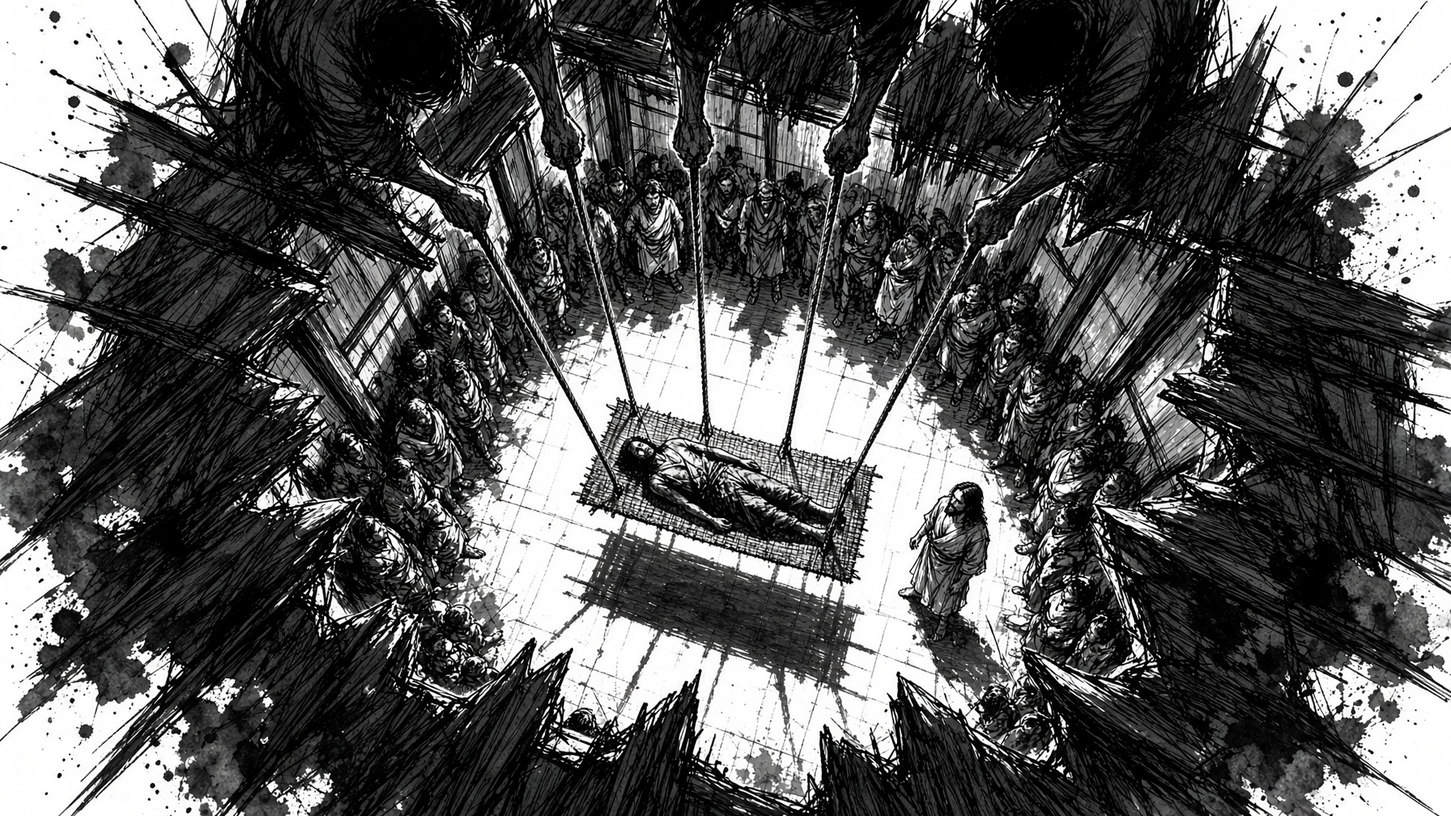
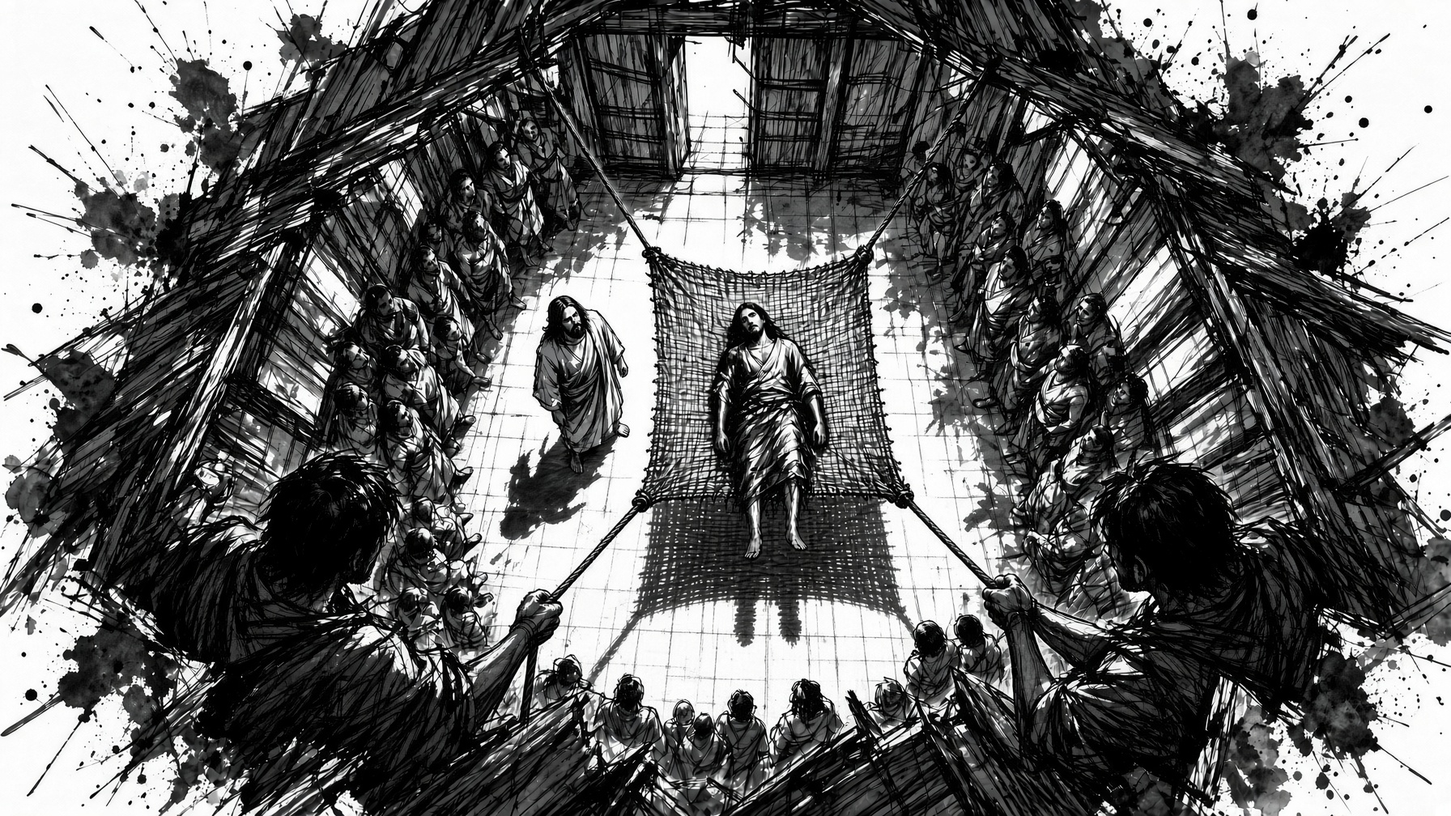
ART-203-01b: replace 203-01 roof-drop sequence with two frames
Dave approved a two-frame Grok Imagine sequence. Hold on seq-1, then crossfade to the landing frame at house timing [0, 0.16, 0.8]. Seq-3 is unused and removed.

diff --git a/discipleship/scripts/l203_01_story_image_browser_check.js b/discipleship/scripts/l203_01_story_image_browser_check.js
@@ -1,8 +1,8 @@
 #!/usr/bin/env node
 /**
  * 203-01 Four Friends and a Roof story-image browser check.
- * Confirms the three roof-drop scroll frames load with house-standard
- * holds, a last unique frame at 0.8, advance in order, keep touchNext
+ * Confirms the two roof-drop scroll frames load with a hold on frame 1,
+ * a last unique landing frame at 0.8, advance in order, keep touchNext
  * on the parable card, honor reduced motion, and do not shift the page
  * at phone and laptop widths. Synthetic navigation only.
  */
@@ -15,9 +15,7 @@ var BASE = process.env.L20301_STORY_BASE_URL || 'http://127.0.0.1:8765/index.htm
 var FRAMES = [
     'images/203-01-roof-drop-seq-1.jpg',
     'images/203-01-roof-drop-seq-1.jpg',
-    'images/203-01-roof-drop-seq-2.jpg',
-    'images/203-01-roof-drop-seq-2.jpg',
-    'images/203-01-roof-drop-seq-3.jpg'
+    'images/203-01-roof-drop-seq-2.jpg'
 ];
 var QUESTION_IDS = [
     '203-01-one',
@@ -28,10 +26,10 @@ var QUESTION_IDS = [
     '203-01-step',
     '203-01-prayer'
 ];
-var STOPS = [0, 0.08, 0.16, 0.24, 0.8];
+var STOPS = [0, 0.16, 0.8];
 var LAST_STOP = STOPS[STOPS.length - 1];
 var AFTER_LAST = 0.85;
-var SAMPLE_PROGRESS = [0, 0.04, 0.08, 0.12, 0.16, 0.2, 0.24, 0.4, 0.56, 0.8, 0.85];
+var SAMPLE_PROGRESS = [0, 0.08, 0.16, 0.4, 0.56, 0.8, 0.85];
 var failed = 0;
 var passed = 0;
 
@@ -51,7 +49,7 @@ async function waitForSequence(page) {
         var root = document.querySelector('#session-1.active [data-parable-sequence]');
         if (!root) return false;
         var frames = Array.prototype.slice.call(root.querySelectorAll('.parable-sequence-frame'));
-        return frames.length === 5 && frames.every(function (img) {
+        return frames.length === 3 && frames.every(function (img) {
             return img.complete && img.naturalWidth > 0 && img.naturalHeight > 0;
         });
     }, { timeout: 20000 });
@@ -168,8 +166,8 @@ function srcMatches(src, expected) {
         await waitForSequence(page);
 
         var rest = await readSequenceState(page);
-        assert(width + ': five sequence frames render', rest.frameCount === 5, String(rest.frameCount));
-        assert(width + ': sequence stops are 0,0.08,0.16,0.24,0.8', rest.stops === STOPS.join(','), rest.stops);
+        assert(width + ': three sequence frames render', rest.frameCount === 3, String(rest.frameCount));
+        assert(width + ': sequence stops are 0,0.16,0.8', rest.stops === STOPS.join(','), rest.stops);
         assert(width + ': image keeps touchNext', rest.touchNext);
         assert(width + ': parable card follows the image', rest.nextIsParable);
         assert(
@@ -192,12 +190,11 @@ function srcMatches(src, expected) {
         });
         var alt = rest.frames[0] && rest.frames[0].alt || '';
         assert(
-            width + ': first frame alt names the three roof-drop beats',
+            width + ': first frame alt names the two roof-drop beats',
             alt.indexOf('hole in the roof') !== -1 &&
                 alt.indexOf('paralyzed man on a mat') !== -1 &&
-                alt.indexOf('shadow far below') !== -1 &&
-                alt.indexOf('then closer') !== -1 &&
-                alt.indexOf('landing beside Jesus') !== -1 &&
+                alt.indexOf('high above the floor') !== -1 &&
+                alt.indexOf('settling beside Jesus') !== -1 &&
                 alt.indexOf('\u2014') === -1,
             alt
         );
@@ -273,26 +270,26 @@ function srcMatches(src, expected) {
         }
         var used = {};
         order.forEach(function (row) { used[row.dominant] = true; });
-        var lastFrameInAtStop = atLastStop && atLastStop.opacities && atLastStop.opacities[4] >= 0.85;
+        var lastFrameInAtStop = atLastStop && atLastStop.opacities && atLastStop.opacities[2] >= 0.85;
         assert(width + ': frames advance in order as you scroll', monotonic, JSON.stringify(order));
-        assert(width + ': all five frames become dominant', Object.keys(used).length === 5, JSON.stringify(order));
+        assert(width + ': all three frames become dominant', Object.keys(used).length === 3, JSON.stringify(order));
         assert(width + ': last frame is nearly opaque at stop ' + LAST_STOP, lastFrameInAtStop, JSON.stringify(atLastStop));
-        assert(width + ': last frame is exclusive just after stop ' + LAST_STOP, afterLastStop && afterLastStop.dominant === 4, JSON.stringify(afterLastStop));
+        assert(width + ': last frame is exclusive just after stop ' + LAST_STOP, afterLastStop && afterLastStop.dominant === 2, JSON.stringify(afterLastStop));
         assert(width + ': last frame is still on screen at the final stop', lastStopVisible, lastStopNote);
         assert(width + ': touchNext joins the parable card without layout shift', overlapShift === false && heightAtStart > 100);
-        var atHoldEnd = order.find(function (row) { return row.progress === 0.24; });
+        var atHoldEnd = order.find(function (row) { return row.progress === 0.16; });
         var midDissolve = order.find(function (row) { return row.progress === 0.4; });
         var lateDissolve = order.find(function (row) { return row.progress === 0.56; });
-        var seq2AtHold = atHoldEnd && atHoldEnd.opacities &&
-            (atHoldEnd.opacities[2] >= 0.85 || atHoldEnd.opacities[3] >= 0.85) &&
-            atHoldEnd.opacities[4] < 0.15;
-        var seq3Mid = midDissolve && midDissolve.opacities && midDissolve.opacities[4];
-        var seq3Late = lateDissolve && lateDissolve.opacities && lateDissolve.opacities[4];
-        assert(width + ': seq-2 still holds at 0.24 before the last dissolve', seq2AtHold, JSON.stringify(atHoldEnd));
-        assert(width + ': last dissolve is underway at 0.4', seq3Mid > 0.15 && seq3Mid < 0.45, JSON.stringify(midDissolve));
-        assert(width + ': last dissolve is further along at 0.56', seq3Late > 0.45 && seq3Late < 0.75, JSON.stringify(lateDissolve));
+        var seq1AtHold = atHoldEnd && atHoldEnd.opacities &&
+            (atHoldEnd.opacities[0] >= 0.85 || atHoldEnd.opacities[1] >= 0.85) &&
+            atHoldEnd.opacities[2] < 0.15;
+        var seq2Mid = midDissolve && midDissolve.opacities && midDissolve.opacities[2];
+        var seq2Late = lateDissolve && lateDissolve.opacities && lateDissolve.opacities[2];
+        assert(width + ': seq-1 still holds at 0.16 before the last dissolve', seq1AtHold, JSON.stringify(atHoldEnd));
+        assert(width + ': last dissolve is underway at 0.4', seq2Mid > 0.15 && seq2Mid < 0.55, JSON.stringify(midDissolve));
+        assert(width + ': last dissolve is further along at 0.56', seq2Late > 0.45 && seq2Late < 0.80, JSON.stringify(lateDissolve));
         if (width === 390) {
-            assert('390: last dissolve spans 0.24 to 0.8 from seq-2 to seq-3', seq3Mid < seq3Late, 'mid=' + seq3Mid + ' late=' + seq3Late);
+            assert('390: last dissolve spans 0.16 to 0.8 from seq-1 to seq-2', seq2Mid < seq2Late, 'mid=' + seq2Mid + ' late=' + seq2Late);
         }
 
         await page.close();
@@ -306,13 +303,13 @@ function srcMatches(src, expected) {
     await reduced.goto(BASE + '#203-1', { waitUntil: 'domcontentloaded' });
     await waitForSequence(reduced);
     var reducedState = await readSequenceState(reduced);
-    assert('reduced motion: sequence root renders', reducedState.frameCount === 5, String(reducedState.frameCount));
+    assert('reduced motion: sequence root renders', reducedState.frameCount === 3, String(reducedState.frameCount));
     assert(
         'reduced motion: last frame shown without scrolling',
         reducedState.staticSequence &&
-            reducedState.frames[4] &&
-            reducedState.frames[4].opacity >= 0.95 &&
-            reducedState.frames.slice(0, 4).every(function (frame) { return frame.opacity <= 0.05; }),
+            reducedState.frames[2] &&
+            reducedState.frames[2].opacity >= 0.95 &&
+            reducedState.frames.slice(0, 2).every(function (frame) { return frame.opacity <= 0.05; }),
         JSON.stringify({
             staticSequence: reducedState.staticSequence,
             opacities: reducedState.frames.map(function (f) { return Number(f.opacity.toFixed(3)); })
@@ -320,9 +317,9 @@ function srcMatches(src, expected) {
     );
     assert(
         'reduced motion: last frame still loads the roof-drop sequence',
-        reducedState.frames[4] && reducedState.frames[4].naturalWidth > 0 &&
-            srcMatches(reducedState.frames[4].src, 'images/203-01-roof-drop-seq-3.jpg'),
-        reducedState.frames[4] && reducedState.frames[4].src
+        reducedState.frames[2] && reducedState.frames[2].naturalWidth > 0 &&
+            srcMatches(reducedState.frames[2].src, 'images/203-01-roof-drop-seq-2.jpg'),
+        reducedState.frames[2] && reducedState.frames[2].src
     );
     assert('reduced motion: old bw/color pair is not rendered', reducedState.hasBwPair === false);
     assert('reduced motion: touchNext joins the parable', reducedState.touchNext && reducedState.nextIsParable);

diff --git a/discipleship/scripts/lesson-image-assets.js b/discipleship/scripts/lesson-image-assets.js
@@ -809,7 +809,7 @@
     "images/203-01-roof-drop-seq-1.jpg": {
         "width": 1792,
         "height": 1008,
[2 lines of base64/hex data omitted]
         "variants": [
             {
                 "src": "images/optimized/203-01-roof-drop-seq-1-640.webp",
@@ -824,7 +824,7 @@
     "images/203-01-roof-drop-seq-2.jpg": {
         "width": 1792,
         "height": 1008,
[2 lines of base64/hex data omitted]
         "variants": [
             {
                 "src": "images/optimized/203-01-roof-drop-seq-2-640.webp",
@@ -832,21 +832,6 @@
             },
             {
                 "src": "images/optimized/203-01-roof-drop-seq-2-1280.webp",
-                "width": 1280
-            }
-        ]
-    },
-    "images/203-01-roof-drop-seq-3.jpg": {
-        "width": 1792,
-        "height": 1008,
[1 lines of base64/hex data omitted]
-        "variants": [
-            {
-                "src": "images/optimized/203-01-roof-drop-seq-3-640.webp",
-                "width": 640
-            },
-            {
-                "src": "images/optimized/203-01-roof-drop-seq-3-1280.webp",
                 "width": 1280
             }
         ]

diff --git a/discipleship/project-management/logs/2026-11-19-ART-203-01b-grok.md b/discipleship/project-management/logs/2026-11-19-ART-203-01b-grok.md
@@ -1,0 +1,71 @@
+# ART-203-01b: 203-01 two-frame roof-drop sequence
+
+Date: 2026-11-19. Owner: Grok. Branch: `cursor/art-203-01b-roof-drop-two`. Status: REVIEW. Base commit: `6027158`.
+
+## Why
+
+Dave approved a new two-frame Grok Imagine sequence looking straight down through the roof as friends lower a paralyzed man on a mat. Frame 1 is higher, with the net still well above the floor. Frame 2 is the mat about to land beside Jesus. This packet replaces the three-frame ART-203-01 wiring. Artwork was copied as-is; only the image optimizer made delivery WebP copies.
+
+## What changed
+
+1. **Originals (`images/203-01-roof-drop-seq-1.jpg` and `-2.jpg`)**: 1792x1008 JPEG, byte-identical to the approved uploads. SHA-256:
[2 lines of base64/hex data omitted]
+2. **Removed seq-3**: grep after the JSON, inventory, and browser-check updates found live references only in the generated `scripts/lesson-image-assets.js` map. Historical ART-203-01 log lines remain. Deleted `images/203-01-roof-drop-seq-3.jpg` and its 640/1280 WebP copies. The optimizer then dropped seq-3 from the asset map.
+3. **Lesson JSON (`data/203-01.json`)**: the story `image` block is now `imageSequence` `[seq-1, seq-1, seq-2]`, `imageSequenceStops: [0, 0.16, 0.8]`, `touchNext: true`, `anchor: "story"`. Hold on frame 1, then crossfade to the landing frame held at the end, per the house scroll timing. No other lesson text, question text, tools, or question IDs changed. Saved-answer IDs stay `203-01-one`, `203-01-helped`, `203-01-4`, `203-01-hand`, `203-01-key`, `203-01-step`, `203-01-prayer`. Retired IDs stay `203-01-1`, `203-01-2`, `203-01-6`.
+4. **Alt text.** Combined alt covering each beat: "Looking down through a hole in the roof as friends lower a paralyzed man on a mat, first high above the floor, then settling beside Jesus".
+5. **Optimizer (`node scripts/build_lesson_images.js`)**: ran after `npm ci`. Exit 0. Cached delivery copies for other art were left unchanged. `scripts/lesson-image-assets.js` was regenerated by the build script, not edited by hand. New copies:
+   - `images/optimized/203-01-roof-drop-seq-1-640.webp` (91126 bytes)
+   - `images/optimized/203-01-roof-drop-seq-1-1280.webp` (305154 bytes; original JPG 1076203)
+   - `images/optimized/203-01-roof-drop-seq-2-640.webp` (87884 bytes)
+   - `images/optimized/203-01-roof-drop-seq-2-1280.webp` (285348 bytes; original JPG 1032530)
+6. **Browser check**: `scripts/l203_01_story_image_browser_check.js` now checks three sequence entries, stops `[0, 0.16, 0.8]`, a hold on seq-1, the last dissolve to seq-2, scroll advance, last frame still on screen, `touchNext`, reduced motion, the seven saved-answer IDs, and that `203-01-love-moves-out.png` stays a separate static image.
+7. **Inventory**: 203-01 row in `story-image.md` is now a 3-stop sequence, live with `touchNext: true`.
+8. **Board**: ART-203-01b in `TASKS.md` is REVIEW, owner Grok / `cursor/art-203-01b-roof-drop-two`. ART-203-01 remains REVIEW with a superseded note on the image block.
+
+Login, Firebase config, workflows, index.html, reader/export code, widgets, and sign-in code were not touched.
+
+## Checks (from `discipleship/`)
+
+Local server: `python3 -m http.server 8765 --bind 127.0.0.1`. Playwright used installed Chrome (`GT_BROWSER_CHANNEL` default chrome). Synthetic data only. No credentials printed. Each command used `set -o pipefail` and a named `_EXIT` line.
+
+- `npm ci`: NPM_CI_EXIT:0
+- `node scripts/build_lesson_images.js`: BUILD_EXIT:0
+- `bash scripts/qa_foundation.sh`: QA_FOUNDATION_EXIT:0. Includes 415 bundled-John checks, 146 asset references, 32 widget iframe checks, 212 export checks, 1558 lesson image checks.
+- `node scripts/test_lesson_export.js`: TEST_LESSON_EXPORT_EXIT:0 (`212 check(s) passed.`)
+- `node scripts/test_answer_storage.js`: TEST_ANSWER_STORAGE_EXIT:0 (`73 check(s) passed.`)
+- `node scripts/check_lesson_assets.js`: CHECK_LESSON_ASSETS_EXIT:0 (`PASS: 146 src/image/imageBw/imageColor/imageSequence references resolve to files.`)
+- `node scripts/test_lesson_assets.js`: TEST_LESSON_ASSETS_EXIT:0 (`8 asset check tests passed.`)
+- `node scripts/test_widget_iframe.js`: TEST_WIDGET_IFRAME_EXIT:0 (`32 widget iframe checks passed.`)
+- `node scripts/test_lesson_images.js`: TEST_LESSON_IMAGES_EXIT:0 (`1558 lesson image checks passed.`)
+- `node scripts/l203_01_story_image_browser_check.js`: L203_01_STORY_IMAGE_BROWSER_CHECK_EXIT:0. 83 passed at 375, 390, and 1280, plus reduced motion. Three entries load and stay stacked, they advance in order on scroll (390 samples: dominant 0, 0, 1, 1, 1, 1, 2), seq-1 still holds at 0.16, last dissolve opacities 0.374 at 0.4 and 0.624 at 0.56, last frame is opaque at stop 0.8 and exclusive by 0.85, reduced motion shows seq-2 without scrolling, `touchNext` joins the parable card, wrap height stays put (375: 188.4px, 390: 196.9px, 1280: 337.5px), the parable does not nest a second story image, all seven question IDs render, no sideways scroll.
+
+Not run: real iPhone/Safari. No merge and no deploy. Stop at REVIEW. Dave's personal art approval remains pending.
+
+## Handoff
+
+Changed files:
+- `discipleship/data/203-01.json` (story image block only)
+- `discipleship/images/203-01-roof-drop-seq-1.jpg`
+- `discipleship/images/203-01-roof-drop-seq-2.jpg`
+- `discipleship/images/203-01-roof-drop-seq-3.jpg` (deleted)
+- `discipleship/images/optimized/203-01-roof-drop-seq-1-640.webp`
+- `discipleship/images/optimized/203-01-roof-drop-seq-1-1280.webp`
+- `discipleship/images/optimized/203-01-roof-drop-seq-2-640.webp`
+- `discipleship/images/optimized/203-01-roof-drop-seq-2-1280.webp`
+- `discipleship/images/optimized/203-01-roof-drop-seq-3-640.webp` (deleted)
+- `discipleship/images/optimized/203-01-roof-drop-seq-3-1280.webp` (deleted)
+- `discipleship/scripts/lesson-image-assets.js` (generated)
+- `discipleship/scripts/l203_01_story_image_browser_check.js`
+- `discipleship/story-image.md`
+- `discipleship/project-management/TASKS.md`
+- `discipleship/project-management/HANDOFF.md`
+- `discipleship/project-management/logs/2026-11-19-ART-203-01b-grok.md`
+
+Remaining work / next command: independent review, then Dave's personal art approval. Do not merge or deploy by hand.
+
+Blocker and unblock action, if any: none.
+
+Commit / PR / GitHub sync state: branch `cursor/art-203-01b-roof-drop-two`. PR follows this log. Stop at REVIEW.
+
+Pastoral approval evidence, if applicable: Dave approved the two seq frames before this wiring packet. No new lesson wording approval is implied.

diff --git a/discipleship/project-management/TASKS.md b/discipleship/project-management/TASKS.md
@@ -312,7 +312,8 @@ Plan and standard: [reviews/2026-11-11-series-review.md](reviews/2026-11-11-seri
 | [x] | CONTENTS-201-203 | DONE | Claude / claude/contents-201-203 / 2026-11-18 | Dave directed in session 2026-11-18 | Story / Study / Diagram contents list on all ten 201 and all ten 203 lessons, same design as 202. Story goes to the story picture, or the story card where a lesson has no picture (201-06, 203-01, 203-02, 203-10). Study goes to the first teaching section, or the next one where a widget sits right under it (201-03, 203-06, 203-09). Diagram goes to the main widget; 203-02, 203-03 and 203-04 have no widget and show two rows. No lesson wording changed. Dave approved on the preview and asked to merge 2026-11-18; merged in PR #294. Evidence: logs/2026-11-18-CONTENTS-201-203-claude.md. |
 | [x] | CONTENTS-203-BOXES | DONE | Claude / claude/203-box-diagrams / 2026-11-18 | Dave directed in session 2026-11-18 | Diagram row added to 203-02 (Prayer Card, the Their Life, Their Heart, My Part box), 203-03 (The Open Table box) and 203-04 (Time, Talents, Treasure box), which have no widget. Box blocks can now carry an anchor. Dave approved on the preview and asked to merge 2026-11-18; merged in PR #295. Evidence: logs/2026-11-18-CONTENTS-203-BOXES-claude.md. |
 | [x] | AAA-203-01 | DONE | Claude / claude/203-01-aaa / 2026-11-18 | Dave directed in session 2026-11-18 after the 203-01 to 203-05 review | 203-01 rewritten around personal ministry. Title Your Personal Ministry. The roof story leads; new grace turn (you were the one on the mat; carried people become carriers); Loved First, Then Sent section recaps 201 and 202 with the Greatest Commandment widget moved below the story and a new Love Moves Out circles picture (images/203-01-love-moves-out.png) under it; Personal Ministry Map widget removed from the lesson (file kept); tree and orchard cut to one sentence; new A Life, Not a Project section with the BLESS Rhythms box. All seven question IDs and wording kept. Contents Study now Loved First, Then Sent. Story art still pending (ART-203-01). Dave approved on the preview and asked to merge 2026-11-18; merged in PR #299. Evidence: logs/2026-11-18-AAA-203-01-claude.md. |
-| [ ] | ART-203-01 | REVIEW | Grok / cursor/art-203-01-roof-drop / 2026-11-19 | Dave approved three Grok Imagine frames | Add a three-frame roof-drop scroll sequence before Four Friends and a Roof (203-01-roof-drop-seq-1.jpg .. 3.jpg). House-standard timing adapted to three frames: 0.08 holds by listing seq-1 and seq-2 twice, last unique frame once, stops [0, 0.08, 0.16, 0.24, 0.8]. Non-image lesson values/IDs unchanged. Foundation QA/export 212/storage 73/assets 150/images 1571/iframe 32 and local browser 89 pass, exit 0. One PR; stop at REVIEW. Dave's personal art approval remains pending. Evidence: logs/2026-11-18-ART-203-01-grok.md. |
+| [ ] | ART-203-01 | REVIEW | Grok / cursor/art-203-01-roof-drop / 2026-11-19 | Dave approved three Grok Imagine frames | Add a three-frame roof-drop scroll sequence before Four Friends and a Roof (203-01-roof-drop-seq-1.jpg .. 3.jpg). House-standard timing adapted to three frames: 0.08 holds by listing seq-1 and seq-2 twice, last unique frame once, stops [0, 0.08, 0.16, 0.24, 0.8]. Non-image lesson values/IDs unchanged. Foundation QA/export 212/storage 73/assets 150/images 1571/iframe 32 and local browser 89 pass, exit 0. One PR; stop at REVIEW. Dave's personal art approval remains pending. Superseded on the image block by ART-203-01b. Evidence: logs/2026-11-18-ART-203-01-grok.md. |
+| [ ] | ART-203-01b | REVIEW | Grok / cursor/art-203-01b-roof-drop-two / 2026-11-19 | Dave approved two Grok Imagine frames | Replace the three-frame 203-01 roof-drop sequence with two frames (203-01-roof-drop-seq-1.jpg and -2.jpg). Sequence [seq-1, seq-1, seq-2], stops [0, 0.16, 0.8]: hold on frame 1, then crossfade to the landing frame held at the end. Seq-3 original and optimized copies deleted after grep showed no live references. Non-image lesson values/IDs unchanged. Foundation QA/export 212/storage 73/assets 146/images 1558/iframe 32 and local browser 83 pass, exit 0. One PR; stop at REVIEW. Dave's personal art approval remains pending. Evidence: logs/2026-11-19-ART-203-01b-grok.md. |
 | [x] | CLEANUP-STALE-LABELS | DONE | Claude / claude/cleanup-stale-labels / 2026-11-18 | Dave asked in session 2026-11-18 for simple cleanup fixes and to be told about each | Course-plan subtitles shown in the lesson menus updated where they named removed or replaced tools: 202-01 (was Cross the Road), 202-05 (was The Valley Road), 202-07 (was Stewardship Flip), 203-01 (was a working note). 203-05, 203-09 and 203-10 no longer mention the removed Personal Ministry Map widget. Reported to Dave, not changed: four lesson pages show the course-plan title instead of the lesson file title (201-06, 202-02, 202-04, 202-05). Dave asked to merge 2026-11-18; merged in PR #307. Evidence: logs/2026-11-18-CLEANUP-STALE-LABELS-claude.md. |
 | [x] | CLEANUP-UNUSED-ABRAM-ART | DONE | Claude / claude/remove-unused-abram-art / 2026-11-18 | Dave asked to remove it in session 2026-11-18 | Removes the unused 202.08-abram-covenant B&W and color pair (sleeping Abram, Genesis 15), its four WebP copies, its manifest entries and its story-image.md row. No lesson, check or widget referenced it; dated research notes and logs keep their history. Dave asked to merge 2026-11-18; merged in PR #315. |
 | [x] | BLESSED-203-02 | DONE | Claude / claude/203-02-blessed / 2026-11-18 | Dave approved the plan in session 2026-11-18: blessed to be a blessing (Genesis 12), Jesus did it first, outward focus on "your one", no breathing language | 203-02 rewritten: story is Abram's call (Genesis 12:1-4) replacing Nehemiah; Galatians 3:8-9 brings the blessing to the reader; new Jesus Prays for You First (Luke 22:32, Hebrews 7:25) and Abraham Prayed for His Neighbors (Genesis 18:22-32); breathing paragraph and the 101 Lord's Prayer paragraph removed; prayer card, daily prayers tool, prayer habits and Not a Performance kept and aimed at "your one"; new This Week's Practice. 203-01 small edits set up Who's your one. All question IDs kept; 2.1 and 2.2 reworded. Story art (Abram) pending. Dave approved and asked to merge 2026-11-18; merged in PR #304. Evidence: logs/2026-11-18-BLESSED-203-02-claude.md. |

diff --git a/discipleship/story-image.md b/discipleship/story-image.md
@@ -118,7 +118,7 @@ The existing engine places the image top at `contentTop + visibleHeight * (0.40 
 - **5 frames (`201-01` Running Father):** `[0, 0.16, 0.3, 0.44, 0.58]`
 - **7 entries with a slow last dissolve (`202-02` Wise Builder):** `[0, 0.08, 0.16, 0.24, 0.32, 0.48, 0.72]`
 - **7 entries with 0.08 holds and a 0.24 last dissolve (`202-01` Good Samaritan):** `[0, 0.08, 0.16, 0.24, 0.32, 0.40, 0.64]`
-- **5 entries with 0.08 holds and last frame at 0.8 (`203-01` Roof Drop):** `[0, 0.08, 0.16, 0.24, 0.8]`
+- **3 entries with a 0.16 hold and last frame at 0.8 (`203-01` Roof Drop):** `[0, 0.16, 0.8]`
 
 ### How the Renderer Animates the Sequence
 
@@ -200,7 +200,7 @@ Optional `imageDissolveOnEntry: true` on a two-layer image starts at 100% B&W wh
 | 202-08 | The Marble and the Chisel | B&W -> Color | `202.08-marble-chisel-bw.jpg` -> `202.08-marble-chisel-color.jpg` | Live (`touchNext: true`, `frame: true`) |
 | 202-09 | The View from the Roof | B&W -> Color | `202-09-story-bw.jpg` -> `202-09-story-color.jpg` (`1280x720`, 16:9; earlier `202.09-david-roof-*.png` kept unused) | Live (`touchNext: true`, `frame: true`, `imageDissolveOnEntry: true`) |
 | 202-10 | The Table He Longed For | B&W -> Color | `202-10-bread-cup-bw.jpg` -> `202-10-bread-cup-color.jpg` (`1152x864`, 4:3) | Baptism/widget first; bread/cup directly above Supper story (`touchNext: true`, `frame: true`). Original Last Supper files retained unused. |
-| 203-01 | Four Friends and a Roof | **5-Stop Sequence** | `203-01-roof-drop-seq-1.jpg` .. `3.jpg` (stops `[0, 0.08, 0.16, 0.24, 0.8]`; seq-1 and seq-2 listed twice) | Live (`touchNext: true`) |
+| 203-01 | Four Friends and a Roof | **3-Stop Sequence** | `203-01-roof-drop-seq-1.jpg`, `203-01-roof-drop-seq-2.jpg` (stops `[0, 0.16, 0.8]`; seq-1 listed twice) | Live (`touchNext: true`) |
 | 203-02 | A Prayer Before the Answer | None | - | PR #240 sequence reverted per Dave / PR #248; no new art assigned |
 | 203-03 | Stay with Us | **4-Frame Sequence** | `emmaus-bread-seq-1.jpg` .. `4.jpg` (stops `[0, 0.18, 0.34, 0.5]`) | Live (`touchNext: true`); old dissolve pair stays unused |
 | 203-04 | The Towel and the Basin | B&W -> Color | `jesus-washing-feet-bw.png` -> `jesus-washing-feet-color.png` | Live (`touchNext: true`) |

diff --git a/discipleship/project-management/HANDOFF.md b/discipleship/project-management/HANDOFF.md
@@ -1,5 +1,7 @@
 # Resume here
 
+ART-203-01b REVIEW, November 19: Dave approved a two-frame Grok Imagine roof-drop sequence that replaces the three-frame set in 203-01. Wired as `[seq-1, seq-1, seq-2]` with stops `[0, 0.16, 0.8]` immediately before Four Friends and a Roof. Seq-3 original and optimized copies removed. Non-image lesson values and saved-answer IDs unchanged. Stop at REVIEW. Evidence: [task log](logs/2026-11-19-ART-203-01b-grok.md).
+
 202-10 baptism-first arrangement DONE, November18: Dave approved PR #260. Merged b4451a3 and verified production after Firebase run44457788117. Baptism/widget first, then the bread-and-cup image directly joined to The Table He Longed For. All newer wording/Scripture,8 question IDs and approved widget/art files preserved; only visible10.1/10.2 order changes. Original Last Supper image files remain on disk, unused. Core QA,112 widget,114 integration and45 layout checks pass; hosted preview and production114+45 pass. Log: logs/2026-11-18-FLOW-202-10-BAPTISM-FIRST-codex.md.
 
 ART-203-01 REVIEW, November 19: Dave approved three Grok Imagine frames looking straight down through the roof as the paralyzed man on his mat is lowered the last few feet to land beside Jesus. Wired as a five-stop house-standard sequence (`203-01-roof-drop-seq-1.jpg` .. `3.jpg`, seq-1 and seq-2 listed twice, stops `[0, 0.08, 0.16, 0.24, 0.8]`) immediately before Four Friends and a Roof. Non-image lesson values and saved-answer IDs unchanged. Stop at REVIEW. Evidence: [task log](logs/2026-11-18-ART-203-01-grok.md).
